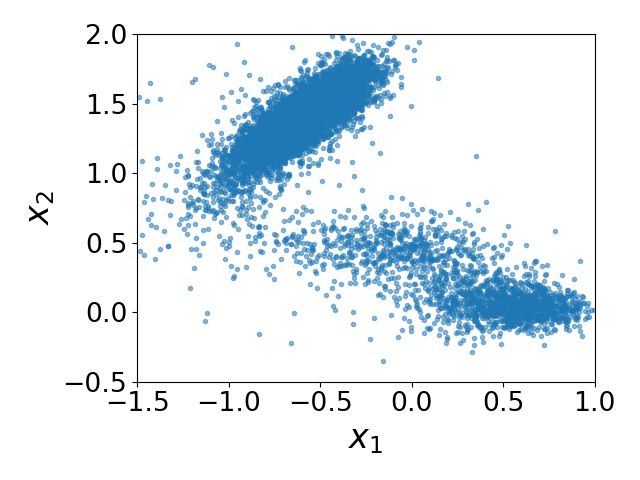
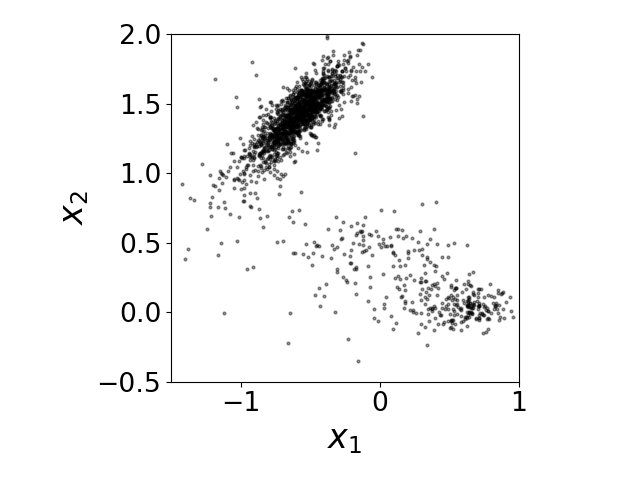
plat data and potential together in muleer potential animation

diff --git a/examples/MullerPotential/script/main.py b/examples/MullerPotential/script/main.py
@@ -1,6 +1,7 @@
 #### define the Muller potential
 import torch
 
+
 def compute_Muller_potential(scale, x):
     A = (-200.0, -100.0, -170.0, 15.0)
     beta = (0.0, 0.0, 11.0, 0.6)
@@ -33,6 +34,7 @@ def compute_Muller_potential(scale, x):
 import matplotlib.pyplot as plt
 from matplotlib import cm
 import numpy as np
+
 
 def generate_grid(x1_min, x1_max, x2_min, x2_max, size=100):
     x1 = torch.linspace(x1_min, x1_max, size)
@@ -147,7 +149,16 @@ else:
 #### plot samples
 fig = plt.figure()
 fig.clf()
-plt.plot(x_data[::10, 0].numpy(), x_data[::10, 1].numpy(), ".", alpha=0.5)
+fig, axes = plt.subplots()
+plt.plot(
+    x_data[::50, 0].numpy(),
+    x_data[::50, 1].numpy(),
+    ".",
+    alpha=0.4,
+    markersize=4,
+    color="k",
+)
+#plt.plot(x_data[::10, 0].numpy(), x_data[::10, 1].numpy(), ".", alpha=0.5)
 plt.xlim((x1_min, x1_max))
 plt.ylim((x2_min, x2_max))
 plt.xlabel(r"$x_1$", fontsize=24)
@@ -157,6 +168,9 @@ plt.tight_layout()
 plt.savefig("./data/mp_samples.png")
 plt.close()
 # plt.show()
+
+exit()
+
 
 #### define a noise distribution and generate noise samples
 import math
@@ -176,8 +190,10 @@ x_noise = torch.stack((x1_noise, x2_noise), dim=1)
 
 #### learn an energy function
 import sys
+
 sys.path.append("../../")
 import pccg
+
 
 def compute_2d_cubic_spline_basis(
     x, M1=10, M2=10, x1_limits=(x1_min, x1_max), x2_limits=(x2_min, x2_max)
@@ -214,8 +230,9 @@ log_q_noise = compute_log_q(x_noise)
 
 for max_iter in range(0, 30, 1):
     print("max_iter = ", max_iter, flush=True)
-    theta, dF = pccg.NCE(log_q_noise, log_q_data, basis_noise, basis_data,
-                        options = {"maxiter": max_iter})
+    theta, dF = pccg.NCE(
+        log_q_noise, log_q_data, basis_noise, basis_data, options={"maxiter": max_iter}
+    )
 
     #### plot the learned energy function
     basis_grid = compute_2d_cubic_spline_basis(x_grid)
@@ -225,12 +242,30 @@ for max_iter in range(0, 30, 1):
     U_grid = U_grid - U_grid.min() + U.min()
     U_grid[U_grid > 9] = 9
     fig, axes = plt.subplots()
-    plt.contourf(
-        U_grid.T.numpy(),
-        levels=np.linspace(-9, 9, 19),
-        extent=(x1_min, x1_max, x2_min, x2_max),
-        cmap=cm.viridis_r,
+    plt.plot(
+        x_data[::50, 0].numpy(),
+        x_data[::50, 1].numpy(),
+        ".",
+        alpha=0.2,
+        markersize=4,
+        color="k",
     )
+
+    U_grid = U_grid + torch.log(torch.exp(-U_grid).sum())
+    plt.contourf(
+        -U_grid.T.numpy(),
+        levels=np.linspace(-18, -6, 13),
+        extent=(x1_min, x1_max, x2_min, x2_max),
+        cmap=cm.viridis,
+    )
+
+    # plt.contourf(
+    #     -U_grid.T.numpy(),
+    #     levels=np.linspace(-9, 9, 19),
+    #     extent=(x1_min, x1_max, x2_min, x2_max),
+    #     cmap=cm.viridis,
+    # )
+
     plt.xlabel(r"$x_1$", fontsize=24)
     plt.ylabel(r"$x_2$", fontsize=24)
     plt.colorbar()
@@ -238,4 +273,31 @@ for max_iter in range(0, 30, 1):
     plt.tight_layout()
     os.makedirs("./data/learned_potential", exist_ok=True)
     plt.savefig(f"./data/learned_potential/iter_{max_iter:0>3}.png")
+    plt.close()
+
+    fig, axes = plt.subplots()
+    plt.plot(
+        x_data[::50, 0].numpy(),
+        x_data[::50, 1].numpy(),
+        ".",
+        alpha=0.2,
+        markersize=4,
+        color="k",
+    )
+
+    P_grid = torch.exp(-U_grid)
+    P_grid = P_grid / P_grid.sum()
+    plt.contourf(
+        P_grid.T.numpy(),
+        # levels=np.linspace(-9, 9, 19),
+        extent=(x1_min, x1_max, x2_min, x2_max),
+        cmap=cm.viridis,
+    )
+    plt.xlabel(r"$x_1$", fontsize=24)
+    plt.ylabel(r"$x_2$", fontsize=24)
+    plt.colorbar()
+    axes.set_aspect("equal")
+    plt.tight_layout()
+    os.makedirs("./data/learned_potential", exist_ok=True)
+    plt.savefig(f"./data/learned_potential/prob_iter_{max_iter:0>3}.png")
     plt.close()
